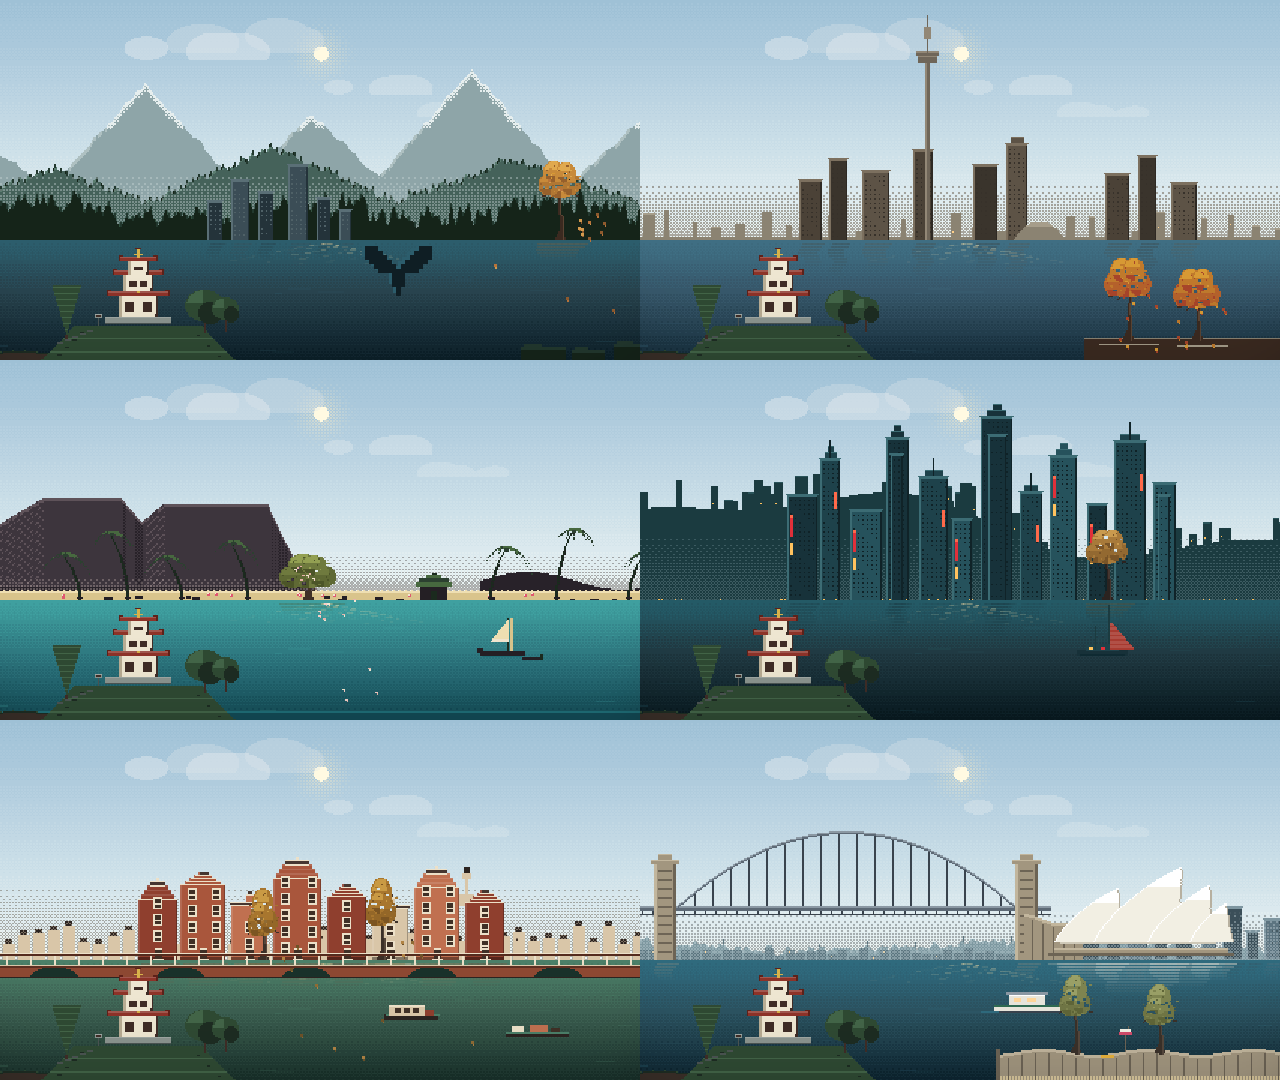
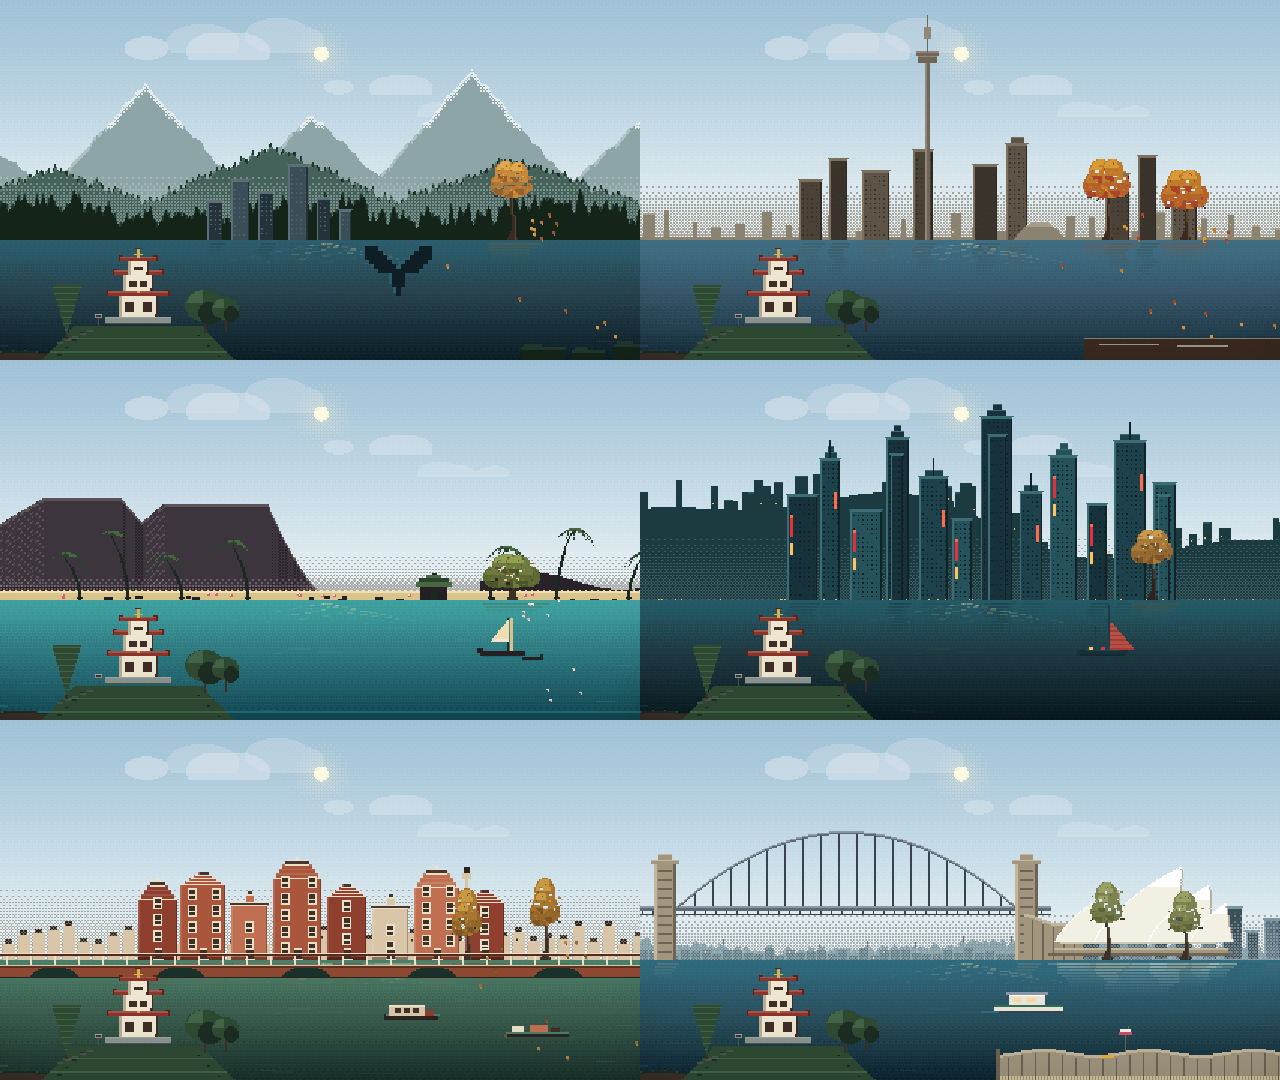
One tree slot for all six cities: mid layer, same position

diff --git a/proto/pixel/index.html b/proto/pixel/index.html
@@ -356,7 +356,7 @@ const CITIES = [
     // a cherry on the far shore: blossom in spring, then a dark fir-green
     // canopy (its summer drift is fir needles), amber autumn, bare winter
     tree: {
-      kind: "cherry", layer: "mid", x: 0.865, baseY: 0.665, h: 38,
+      kind: "cherry", layer: "mid", x: 0.79, baseY: 0.665, h: 38,
       form: { w: 28, h: 26, clusters: 3, trunk: 2, lean: -2, shape: "broad" },
       crowns: {
         spring: { w: 1.00, h: 0.95, dots: 9, lift: 0.55 },
@@ -372,7 +372,7 @@ const CITIES = [
     palette: PAL.toronto, landmark: "toronto", drift: "toronto",
     // the two maples on the near island bank, moved into the tree system
     tree: {
-      kind: "maple", layer: "near", x: [0.762, 0.868], baseY: 0.942, h: [38, 30],
+      kind: "maple", layer: "mid", x: [0.72, 0.84], baseY: 0.665, h: [38, 30],
       form: { w: 29, h: 27, clusters: 3, trunk: 2, lean: 1, shape: "broad" },
       crowns: {
         spring: { w: 1.00, h: 0.92, dots: 0, lift: 0.55 },
@@ -388,7 +388,7 @@ const CITIES = [
     palette: PAL.hawaii, landmark: "hawaii", drift: "hawaii",
     // a plumeria/hibiscus shrub on the beach; tropical, so it never goes bare
     tree: {
-      kind: "plumeria", layer: "mid", x: 0.47, baseY: 0.665, h: 15,
+      kind: "plumeria", layer: "mid", x: 0.79, baseY: 0.665, h: 15,
       form: { w: 34, h: 24, clusters: 4, trunk: 2, lean: 1, shape: "shrub" },
       crowns: {
         spring: { w: 0.98, h: 0.92, dots: 10, lift: 0.60 },
@@ -404,7 +404,7 @@ const CITIES = [
     palette: PAL.hongkong, landmark: "hongkong", drift: "hongkong",
     // a bauhinia on the Kowloon promenade, in front of the tower wall
     tree: {
-      kind: "bauhinia", layer: "mid", x: 0.72, baseY: 0.665, h: 34,
+      kind: "bauhinia", layer: "mid", x: 0.79, baseY: 0.665, h: 34,
       form: { w: 27, h: 24, clusters: 3, trunk: 2, lean: -1, shape: "broad" },
       crowns: {
         spring: { w: 1.00, h: 0.94, dots: 7, lift: 0.55 },
@@ -420,7 +420,7 @@ const CITIES = [
     palette: PAL.amsterdam, landmark: "amsterdam", drift: "amsterdam",
     // the canal-side elms, standing on the far bank in the gable gaps
     tree: {
-      kind: "elm", layer: "mid", x: [0.400, 0.585], baseY: 0.665, h: [28, 36],
+      kind: "elm", layer: "mid", x: [0.72, 0.84], baseY: 0.665, h: [28, 36],
       form: { w: 24, h: 30, clusters: 3, trunk: 2, lean: 0, shape: "tall" },
       crowns: {
         spring: { w: 0.94, h: 1.00, dots: 6, lift: 0.50 },
@@ -438,7 +438,7 @@ const CITIES = [
     // the two jacarandas on the sandstone quay, moved into the tree system;
     // the hemisphere inverts the calendar, not the crown colours
     tree: {
-      kind: "jacaranda", layer: "near", x: [0.680, 0.810], baseY: 0.925, h: [36, 29],
+      kind: "jacaranda", layer: "mid", x: [0.72, 0.84], baseY: 0.665, h: [36, 29],
       form: { w: 28, h: 27, clusters: 3, trunk: 2, lean: -1, shape: "tall" },
       crowns: {
         spring: { w: 1.00, h: 1.00, dots: 8, lift: 0.52 },

diff --git a/proto/pixel/NOTES.md b/proto/pixel/NOTES.md
@@ -41,11 +41,11 @@ unknown id can never crash a render).
 | id | name | tz | palette | landmark | drift | tree | per-city rule |
 | --- | --- | --- | --- | --- | --- | --- | --- |
 | vancouver | Vancouver | America/Vancouver | `PAL.vancouver` | vancouver | vancouver | cherry (mid) | — |
-| toronto | Toronto | America/Toronto | `PAL.toronto` | toronto | toronto | 2 maples (near) | — |
+| toronto | Toronto | America/Toronto | `PAL.toronto` | toronto | toronto | 2 maples (mid) | — |
 | hawaii | Hawai'i | Pacific/Honolulu | `PAL.hawaii` | hawaii | hawaii | plumeria shrub (mid) | — |
 | hongkong | Hong Kong | Asia/Hong_Kong | `PAL.hongkong` | hongkong | hongkong | bauhinia (mid) | — |
 | amsterdam | Amsterdam | Europe/Amsterdam | `PAL.amsterdam` | amsterdam | amsterdam | 2 elms (mid) | — |
-| sydney | Sydney | Australia/Sydney | `PAL.sydney` | sydney | sydney | 2 jacarandas (near) | `noSnow: ["summer"]` |
+| sydney | Sydney | Australia/Sydney | `PAL.sydney` | sydney | sydney | 2 jacarandas (mid) | `noSnow: ["summer"]` |
 
 ## Seasons
 
@@ -94,8 +94,9 @@ exactly once — switching city is the same one-off cost.
 ## Source trees
 
 Every city now has one tree species on its record (`city.tree`) that is part of the baked art
-and is the source of the drift particles. It lives in the near layer when it is a foreground
-tree (Toronto's maples, Sydney's jacarandas) and in the mid layer when it stands on the far
+and is the source of the drift particles. Every city's tree lives in the **mid** layer at the
+same screen slot (single trunks at `x: 0.79`, pairs at `0.72` and `0.84`, `baseY: 0.665`), so the
+near band stays the garden's; the old near-layer placement (Toronto's island, Sydney's quay) was
 shore / canal bank (Vancouver, Hawai'i, Hong Kong, Amsterdam), so its trunk roots at the
 waterline and the water pass hides the foot.
 
@@ -117,11 +118,11 @@ winter only) that `drawFrame` fades in with `snowAmt` — so weather never trigg
 | city | kind | layer | x (fraction of BW) | spring | summer | autumn | winter |
 | --- | --- | --- | --- | --- | --- | --- | --- |
 | vancouver | cherry | mid (far shore) | 0.865 | pale pink blossom + white petal dots | dark fir-green canopy | amber with gaps | bare branches |
-| toronto | maple | near (island bank) | 0.762, 0.868 | pale pink blossom | full green | amber/rust with gaps | bare branches + snow hint |
+| toronto | maple | mid | 0.72, 0.84 | pale pink blossom | full green | amber/rust with gaps | bare branches + snow hint |
 | hawaii | plumeria shrub | mid (beach) | 0.470 | heavy pink bloom | full green + cream blooms | olive with gaps, sparse blooms | evergreen, darker green, a few blooms |
 | hongkong | bauhinia | mid (promenade) | 0.720 | orchid-pink blossom | full green | amber, sparse | bare-ish (a few twig tufts) |
 | amsterdam | elm | mid (canal bank) | 0.400, 0.585 | pale samara green | deep green | amber with gaps | bare branches |
-| sydney | jacaranda | near (sandstone quay) | 0.680, 0.810 | **purple** blossom (Oct) | green | thinned olive, big gaps | bare-ish + 2 tufts |
+| sydney | jacaranda | mid | 0.72, 0.84 | **purple** blossom (Oct) | green | thinned olive, big gaps | bare-ish + 2 tufts |
 
 Two compromises are deliberate and worth flagging:
 
